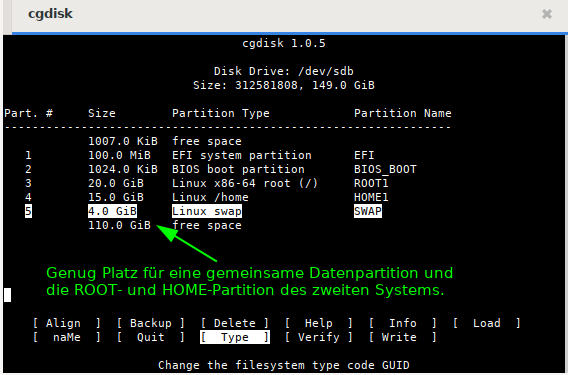
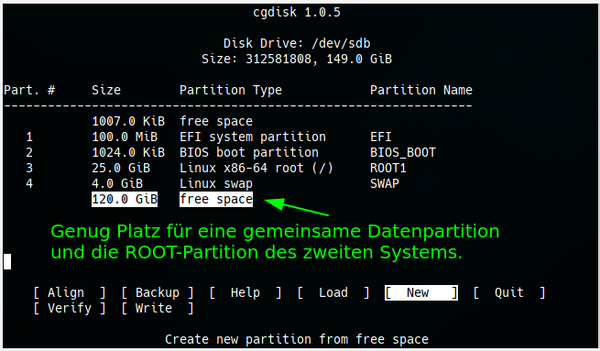
Home-Partition entfernt

diff --git a/data/de/part-gdisk_de.htm b/data/de/part-gdisk_de.htm
@@ -7,8 +7,6 @@
   <title>Partitionieren mit gdisk</title>
 <style>
 body            {margin: 0 auto; float: left; max-width: 1000px; padding: 4%; border: #CCC thin solid;}
-<!-- h1              {display: none;}
-h1.title        {display: initial;} -->
 p               {line-height: 1.3;}
 code            {display: block; background-color: #EEE; padding: 0.5em; border: #CCC thin solid; border-radius: 3px;}
 p code, li code {display: inline; color: #800; padding: 0.15em;}
@@ -17,6 +15,7 @@ table, th, td   {background-color: #EEC; border: #CCC thin solid; border-collaps
 hr              {height: 0.2em; background-color: #CCC; border: 0; margin: 2em 0 2em 0;}
 figcaption      {font-size: 0.8em; color: #888;}
 warning         {display: block; background: yellow; line-height: 1.3em; border: 0.2em solid #CCC; padding: 0.4em;}
+img             {border: 0.1em solid #CCC;}
 #rev            {float:right; font-size: 0.8em; color: #888;}
 </style>
 </head>
@@ -61,6 +60,10 @@ Dieser Bereich ist vor der Veröffentlichung zu entfernen !!!<br />
 <ul>
 <li>Für die Verwendung mit pandoc optimiert.</li>
 <li>Inhalt teilweise überarbeitet.</li>
+</ul>
+<p>Änderungen 2021-03</p>
+<ul>
+<li>Partitionierung ohne Home-Partition.</li>
 </ul>
 <p>ENDE INFOBEREICH FÜR DIE AUTOREN</p>
 <h2 id="warum-gdisk-gpt-fdisk-verwenden">Warum gdisk (GPT fdisk) verwenden?</h2>
@@ -119,7 +122,8 @@ Die Navigation erfolgt mittels der Pfeiltasten.</p>
 <figure>
 <img src="../../static/images-de/cgdisk-de/cgdisk_00.png" alt="" /><figcaption>Warnmeldung</figcaption>
 </figure>
-<p>Wir benötigen für die beiden Betriebssysteme insgesamt sechs Partitionen: Zwei ROOT-, zwei HOME-, eine gemeinsame DATEN- sowie eine SWAP-Partition für den Auslagerungsspeicher. Zusätzlich die bereits oben erwähnte <em>EFI-System</em>-Partition (maximal 100MB) und die <em>BIOS-boot</em>-Partition (1MB).</p>
+<p>Wir benötigen für die beiden Betriebssysteme insgesamt sechs Partitionen: Zwei ROOT-, eine gemeinsame DATEN- sowie eine SWAP-Partition für den Auslagerungsspeicher. Zusätzlich die bereits oben erwähnte <em>EFI-System</em>-Partition (maximal 100MB) und die <em>BIOS-boot</em>-Partition (1MB).<br />
+Wir empfehlen, das <strong>/home</strong>-Verzeichnis auf der ROOT-Partition zu belassen. Das Verzeichnis <strong>/home</strong> sollte der Ort sein, an dem die individuellen Konfigurationen abgelegt werden, und nur diese. Für alle weiteren privaten Daten sollte eine eigene Datenpartition angelegt werden. Die Vorteile für die Datenstabilität, Datensicherung und auch im Falle einer Datenrettung sind nahezu unermesslich.</p>
 <p>Das Startbild</p>
 <figure>
 <img src="../../static/images-de/cgdisk-de/cgdisk_01.png" alt="" /><figcaption>Startbild</figcaption>
@@ -137,14 +141,13 @@ Die Navigation erfolgt mittels der Pfeiltasten.</p>
 ef00 für EFI-System<br />
 ef02 für BIOS-boot<br />
 8200 für Swap<br />
-8302 für Linux Home<br />
 8304 für Linux Root<br />
-0700 für Daten (MS basic data), um einem Windows System Zugriff auf die Daten zu ermöglichen.</p>
-<p>Wir tragen also “ef00” ein und bestätigen. Anschließend dürfen wir optional noch einen Namen (Label) vergeben, was im Beispiel getan wurde, und die Eingabe wieder bestätigen. Mit den Partitionen für BIOS-boot, Linux-root, Linux-Home und Swap wird nach gleichem Muster verfahren. Das nächst Bild zeigt das Ergebnis unserer Bemühungen. Wie wir sehen ist noch reichlich Platz für ein zweites System und vor allem für eine gemeinsam genutzte Daten-Partition vorhanden (Typ 0700), da unsere Home-Partitionen nicht besonders groß ausfallen.</p>
+8300 für Linux Daten</p>
+<p>Wir tragen also “ef00” ein und bestätigen. Anschließend dürfen wir optional noch einen Namen (Label) vergeben, was im Beispiel getan wurde, und die Eingabe wieder bestätigen. Mit den Partitionen für BIOS-boot, Linux-root und Swap wird nach gleichem Muster verfahren. Das nächst Bild zeigt das Ergebnis unserer Bemühungen. Wie wir sehen ist noch reichlich Platz für ein zweites System und vor allem für eine gemeinsam genutzte Daten-Partition vorhanden.</p>
 <figure>
 <img src="../../static/images-de/cgdisk-de/cgdisk_04.png" alt="" /><figcaption>Erster Teil</figcaption>
 </figure>
-<p>Nachdem die drei Partitionen erstellt wurden, sehen wir die Aufteilung der gesamten Festplatte im nächste Bild.</p>
+<p>Nachdem die zwei Partitionen erstellt wurden, sehen wir die Aufteilung der gesamten Festplatte im nächste Bild.</p>
 <figure>
 <img src="../../static/images-de/cgdisk-de/cgdisk_05.png" alt="" /><figcaption>Gemeinsame Verwendung</figcaption>
 </figure>
@@ -185,30 +188,28 @@ Sollten Fehler gemeldet werden, markieren wir die Partition und benutzen den Bef
 <pre><code>Disk /dev/sdb: 149,5 GiB, 160041885696 bytes, 312581808 sectors
 /dev/sdb1       2048    206847    204800  100M EFI System
 /dev/sdb2     206848    208895      2048    1M BIOS boot
-/dev/sdb3     208896  42151935  41943040   20G Linux root (x86-64)
-/dev/sdb4   42151936  73609215  31457280   15G Linux home
-/dev/sdb5   73609216  81997823   8388608    4G Linux swap
-/dev/sdb6   81997824 239284223 157286400   75G Linux filesystem
-/dev/sdb7  239284224 281227263  41943040   20G Linux root (x86-64)
-/dev/sdb8  281227264 312580095  31352832   15G Linux home</code></pre>
+/dev/sdb3     208896  52637695  52428800   25G Linux root (x86-64)
+/dev/sdb4   52637696  61026303   8388608    4G Linux swap
+/dev/sdb5   61026304 260255743 199229440   95G Linux filesystem
+/dev/sdb6  260255744 312581808  52326064   25G Linux root (x86-64)</code></pre>
 <p>Mit diesen Informationen formatieren wir unsere zuvor erstellten Partitionen.</p>
 <p>Bitte unbedingt die <strong>man mke2fs</strong>, <strong>man mkfs.fat</strong> und <strong>man mkswap</strong> lesen.</p>
 <p>Die EFI-Systempartition erhält ein FAT32 Dateisystem.</p>
 <pre><code>mkfs.vfat /dev/sdb1</code></pre>
 <p><strong>Die BIOS_Boot-Partition darf nicht formatiert werden!</strong><br />
 Sofern der Bootmanager <em>GRUB</em> bei der Installation die <em>EFI-System</em>- und die <em>BIOS_Boot</em>-Partition findet, benutzt er sie, gleichgültig, welches Installationsziel wir angegeben haben.</p>
-<p>Die Linuxpartitionen ‘sdb3’, ‘sdb4’ und ‘sdb6-8’ formatieren wir mit <em>ext4</em>.</p>
+<p>Die Linuxpartitionen ‘sdb3’, ‘sdb5’ und ‘sdb6’ formatieren wir mit <em>ext4</em>.</p>
 <pre><code>mkfs.ext4 /dev/sdb3</code></pre>
 <p>Die Swap-Partition wird mit:</p>
-<pre><code>mkswap /dev/sdb5</code></pre>
+<pre><code>mkswap /dev/sdb4</code></pre>
 <p>eingerichtet. Danach machen wir sie mit:</p>
-<pre><code>swapon /dev/sdb5</code></pre>
+<pre><code>swapon /dev/sdb4</code></pre>
 <p>dem System bekannt und kontrollieren, ob der Swap-Speicher verfügbar ist:</p>
 <pre><code>swapon -s
 Filename            Type        Size    Used    Priority
-/dev/sdb5           partition   8914940 0       -2</code></pre>
+/dev/sdb4           partition   4194304 0       -2</code></pre>
 <p>Falls Swap korrekt erkannt wurde:</p>
-<pre><code>swapoff /dev/sdb5</code></pre>
+<pre><code>swapoff /dev/sdb4</code></pre>
 <p><strong>Als nächstes ist es unbedingt notwendig, das System neu zu starten, damit das neue Partitionierungs- und Dateisystemschema vom Kernel eingelesen wird.</strong></p>
 <hr />
 <h2 id="booten-mit-gpt-uefi-oder-gpt-bios">Booten mit GPT-UEFI oder GPT-BIOS</h2>
@@ -280,7 +281,7 @@ z zap (destroy) GPT data structures and exit
 <p>Trotz alledem: die Optionen der Menüs <em>recovery &amp; transformation</em> und <em>experts</em> sollten nur benutzt werden, wenn man sich sehr gut mit GPT auskennt. Als “Nicht-Experte” sollte man diese Menüs nur verwenden, wenn ein Datenträger beschädigt ist. Vor jeder drastischen Aktion sollte die Option <strong>b</strong> im Hauptmenü verwendet werden, um eine Sicherungskopie in einer Datei anzulegen und diese auf einem separaten Datenträger speichern. Dadurch kann die originale Konfiguration wieder hergestellt werden, falls die Aktion nicht nach Wunsch läuft.</p>
 <hr />
 <div id="rev">
-Zuletzt bearbeitet: 2020-12-01
+Zuletzt bearbeitet: 2021-03-07
 </div>
 </body>
 </html>

diff --git a/data/de_md/part-gdisk_de.md b/data/de_md/part-gdisk_de.md
@@ -16,6 +16,10 @@ Dieser Bereich ist vor der Veröffentlichung zu entfernen !!!
 + Für die Verwendung mit pandoc optimiert.
 + Inhalt teilweise überarbeitet.
 
+Änderungen 2021-03
+
++ Partitionierung ohne Home-Partition.
+
 ENDE   INFOBEREICH FÜR DIE AUTOREN
 
 ## Warum gdisk (GPT fdisk) verwenden?
@@ -86,7 +90,8 @@ Der Startbefehl in einem root-Terminal lautet: **cgdisk /dev/sdX**.
 
 ![Warnmeldung](../../static/images-de/cgdisk-de/cgdisk_00.png)
 
-Wir benötigen für die beiden Betriebssysteme insgesamt sechs Partitionen: Zwei ROOT-, zwei HOME-, eine gemeinsame DATEN- sowie eine SWAP-Partition für den Auslagerungsspeicher. Zusätzlich die bereits oben erwähnte *EFI-System*-Partition (maximal 100MB) und die *BIOS-boot*-Partition (1MB).
+Wir benötigen für die beiden Betriebssysteme insgesamt sechs Partitionen: Zwei ROOT-, eine gemeinsame DATEN- sowie eine SWAP-Partition für den Auslagerungsspeicher. Zusätzlich die bereits oben erwähnte *EFI-System*-Partition (maximal 100MB) und die *BIOS-boot*-Partition (1MB).  
+Wir empfehlen, das **/home**-Verzeichnis auf der ROOT-Partition zu belassen. Das Verzeichnis **/home** sollte der Ort sein, an dem die individuellen Konfigurationen abgelegt werden, und nur diese. Für alle weiteren privaten Daten sollte eine eigene Datenpartition angelegt werden. Die Vorteile für die Datenstabilität, Datensicherung und auch im Falle einer Datenrettung sind nahezu unermesslich.
 
 Das Startbild
 
@@ -106,15 +111,14 @@ Nach Eingabe von "L" erscheint eine lange Liste mit den Codes und ihrer Verwendu
 ef00 für EFI-System  
 ef02 für BIOS-boot  
 8200 für Swap  
-8302 für Linux Home  
 8304 für Linux Root  
-0700 für Daten (MS basic data), um einem Windows System Zugriff auf die Daten zu ermöglichen.
+8300 für Linux Daten
 
-Wir tragen also "ef00" ein und bestätigen. Anschließend dürfen wir optional noch einen Namen (Label) vergeben, was im Beispiel getan wurde, und die Eingabe wieder bestätigen. Mit den Partitionen für BIOS-boot, Linux-root, Linux-Home und Swap wird nach gleichem Muster verfahren. Das nächst Bild zeigt das Ergebnis unserer Bemühungen. Wie wir sehen ist noch reichlich Platz für ein zweites System und vor allem für eine gemeinsam genutzte Daten-Partition vorhanden (Typ 0700), da unsere Home-Partitionen nicht besonders groß ausfallen.
+Wir tragen also "ef00" ein und bestätigen. Anschließend dürfen wir optional noch einen Namen (Label) vergeben, was im Beispiel getan wurde, und die Eingabe wieder bestätigen. Mit den Partitionen für BIOS-boot, Linux-root und Swap wird nach gleichem Muster verfahren. Das nächst Bild zeigt das Ergebnis unserer Bemühungen. Wie wir sehen ist noch reichlich Platz für ein zweites System und vor allem für eine gemeinsam genutzte Daten-Partition vorhanden.
 
 ![Erster Teil](../../static/images-de/cgdisk-de/cgdisk_04.png)
 
-Nachdem die drei Partitionen erstellt wurden, sehen wir die Aufteilung der gesamten Festplatte im nächste Bild. 
+Nachdem die zwei Partitionen erstellt wurden, sehen wir die Aufteilung der gesamten Festplatte im nächste Bild. 
 
 ![Gemeinsame Verwendung](../../static/images-de/cgdisk-de/cgdisk_05.png)
 
@@ -170,12 +174,10 @@ Der Befehl generiert die folgende Ausgabe:
 Disk /dev/sdb: 149,5 GiB, 160041885696 bytes, 312581808 sectors
 /dev/sdb1       2048    206847    204800  100M EFI System
 /dev/sdb2     206848    208895      2048    1M BIOS boot
-/dev/sdb3     208896  42151935  41943040   20G Linux root (x86-64)
-/dev/sdb4   42151936  73609215  31457280   15G Linux home
-/dev/sdb5   73609216  81997823   8388608    4G Linux swap
-/dev/sdb6   81997824 239284223 157286400   75G Linux filesystem
-/dev/sdb7  239284224 281227263  41943040   20G Linux root (x86-64)
-/dev/sdb8  281227264 312580095  31352832   15G Linux home
+/dev/sdb3     208896  52637695  52428800   25G Linux root (x86-64)
+/dev/sdb4   52637696  61026303   8388608    4G Linux swap
+/dev/sdb5   61026304 260255743 199229440   95G Linux filesystem
+/dev/sdb6  260255744 312581808  52326064   25G Linux root (x86-64)
 ~~~
 
 Mit diesen Informationen formatieren wir unsere zuvor erstellten Partitionen.
@@ -191,7 +193,7 @@ mkfs.vfat /dev/sdb1
 **Die BIOS_Boot-Partition darf nicht formatiert werden!**  
 Sofern der Bootmanager *GRUB* bei der Installation die *EFI-System*- und die *BIOS\_Boot*-Partition findet, benutzt er sie, gleichgültig, welches Installationsziel wir angegeben haben.
 
-Die Linuxpartitionen 'sdb3', 'sdb4' und 'sdb6-8' formatieren wir mit *ext4*.
+Die Linuxpartitionen 'sdb3', 'sdb5' und 'sdb6' formatieren wir mit *ext4*.
 
 ~~~
 mkfs.ext4 /dev/sdb3
@@ -200,13 +202,13 @@ mkfs.ext4 /dev/sdb3
 Die Swap-Partition wird mit:
 
 ~~~
-mkswap /dev/sdb5
+mkswap /dev/sdb4
 ~~~
 
 eingerichtet. Danach machen wir sie mit:
 
 ~~~
-swapon /dev/sdb5
+swapon /dev/sdb4
 ~~~
 
 dem System bekannt und kontrollieren, ob der Swap-Speicher verfügbar ist:
@@ -214,13 +216,13 @@ dem System bekannt und kontrollieren, ob der Swap-Speicher verfügbar ist:
 ~~~
 swapon -s
 Filename			Type		Size	Used	Priority
-/dev/sdb5          	partition	8914940	0	    -2
+/dev/sdb4          	partition	4194304	0	    -2
 ~~~
 
 Falls Swap korrekt erkannt wurde:
 
 ~~~
-swapoff /dev/sdb5
+swapoff /dev/sdb4
 ~~~
 
 **Als nächstes ist es unbedingt notwendig, das System neu zu starten, damit das neue Partitionierungs- und Dateisystemschema vom Kernel eingelesen wird.** 
@@ -321,4 +323,4 @@ Trotz alledem: die Optionen der Menüs *recovery & transformation*  und *experts
 
 ---
 
-<div id="rev">Zuletzt bearbeitet: 2020-12-01</div>
+<div id="rev">Zuletzt bearbeitet: 2021-03-07</div>
